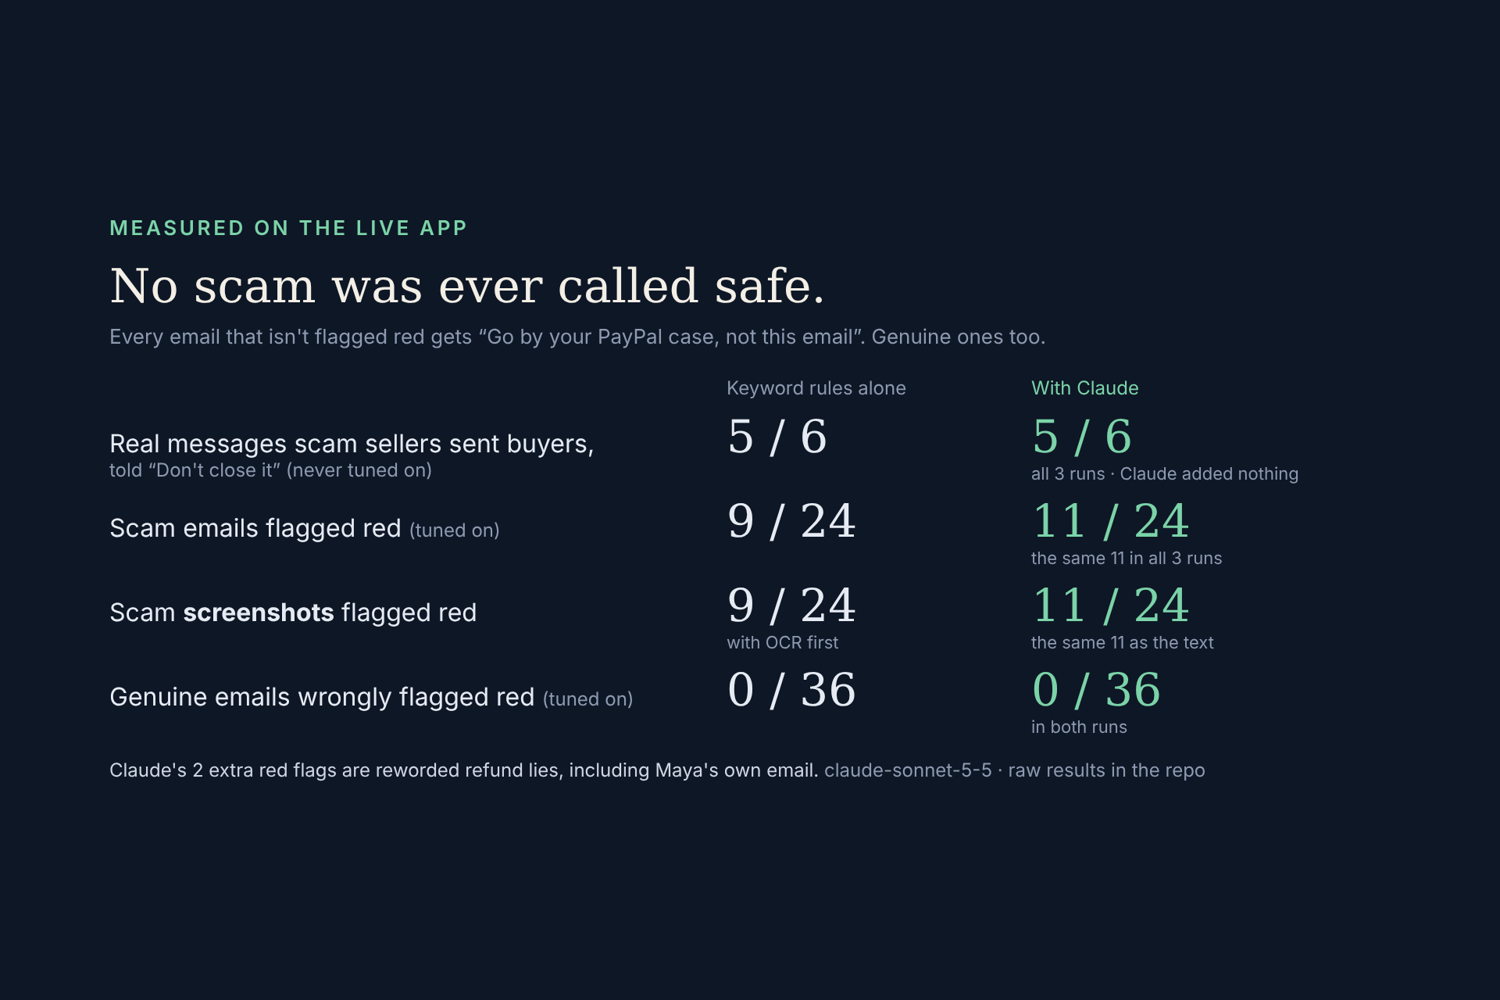
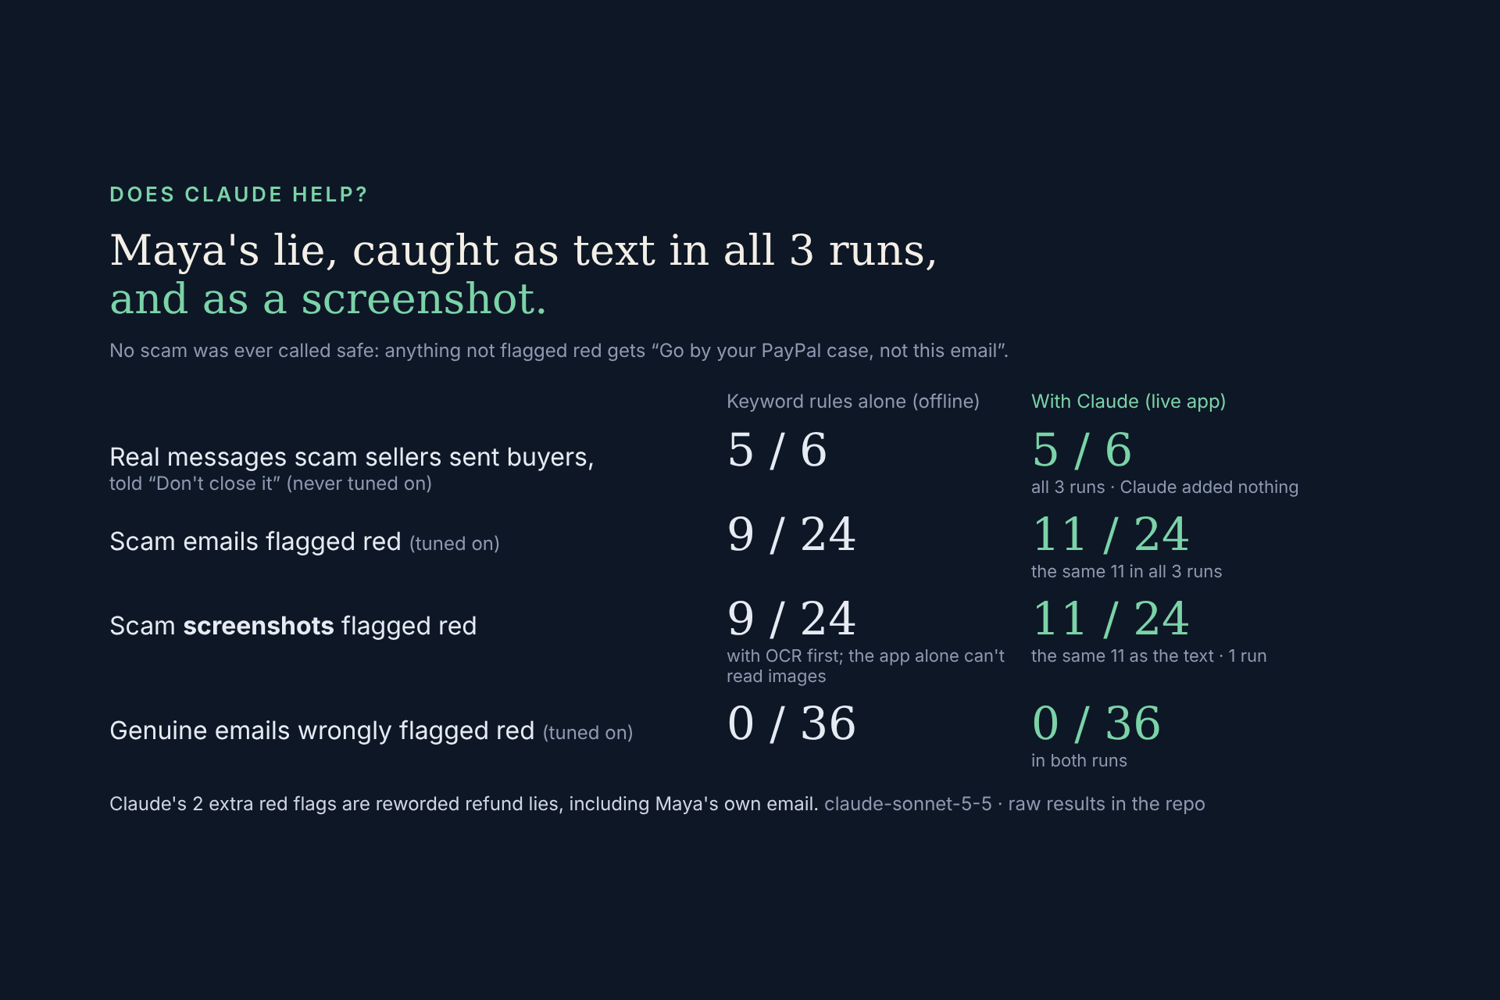
Judge round 4: a model-added 'case decided / money on its way' claim needs a quote (with test); Devpost text: what Claude adds in one sentence, retention, amber floor scope, screenshot run counts and genuine-screenshot row, set 8 wording, specific PayPal asks; results image and video script
Claude-Session: https://claude.ai/code/session_01SjA2V1Qr9LimGbLvD4UyAF

diff --git a/tests/all.test.js b/tests/all.test.js
@@ -324,3 +324,11 @@ test("a refund for another purchase isn't called a lie about her case, and she k
   assert.equal(scam.comparison.overall, "mismatch");
   assert.ok(!/delete it/i.test(scam.note) && /keep it/i.test(scam.note));
 });
+
+test("a model-added 'case decided / money on its way' claim needs a quote too (judge round 4)", async () => {
+  const { gateModelClaims } = await import("../lib/agent.js");
+  const text = "Hi Maya, we're still checking with USPS about your package and will update you this week.";
+  const { kept, dropped } = gateModelClaims({ outcomeClaimed: false }, { outcomeClaimed: true }, text);
+  assert.ok(!kept.outcomeClaimed);
+  assert.ok(dropped.some((d) => d.startsWith("outcomeClaimed")));
+});

diff --git a/lib/claims.js b/lib/claims.js
@@ -158,6 +158,7 @@ const HYPO = /\b(if|unless|whether|would|could|might|may|in case|once|si|una vez
 const CLAIM_WORDS = {
   refundClaimed: /refund|reembols|devoluci|\$|money|funds|balance|credit|reimburs|taken care|paid back|dinero/i,
   caseClosedClaimed: /clos|resolv|settl|cerrad|resuelt/i,
+  outcomeClaimed: /decid|decision|ruled|fav(?:o|ou)r|return|refund|reimburs|credit|money|funds|on (?:its|the) way|resolv|resuelt|devuel|dinero/i,
   asksToCloseCase: /close|cancel|withdraw|\bend\b|drop|remove|cierre|cancele|retire/i,
   asksForSecret: /code|password|passcode|\bpin\b|otp|c[oó]digo|contrase/i,
   asksForOffPlatformPayment: /zelle|gift card|crypto|bitcoin|wire|venmo|cash app|western union|tarjeta/i,

diff --git a/lib/agent.js b/lib/agent.js
@@ -69,7 +69,7 @@ export const modelInfo = () => ({
 
 // Fields that can turn an email red. The model may add one only with a quoted sentence that is really in
 // the email and is a plain statement (not negated or conditional). An offer is not a refund.
-const RED_FIELDS = ["refundClaimed", "caseClosedClaimed", "asksToCloseCase", "asksForSecret", "asksForOffPlatformPayment"];
+const RED_FIELDS = ["refundClaimed", "caseClosedClaimed", "outcomeClaimed", "asksToCloseCase", "asksForSecret", "asksForOffPlatformPayment"];
 export function gateModelClaims(current, input = {}, text = "") {
   const kept = { ...input }; const dropped = []; const quotes = [];
   delete kept.evidence;

diff --git a/docs/DEVPOST.md b/docs/DEVPOST.md
@@ -18,7 +18,7 @@ No link, no "click here", nothing a keyword filter flags. And it isn't true. The
 
 She has ten minutes on a night break, so Day 20's answer is one line, and the deadline is a date, not a rule to look up. Online shopping was the second most reported fraud category in the FTC's 2024 data ([FTC](https://www.ftc.gov/news-events/news/press-releases/2025/03/new-ftc-data-show-big-jump-reported-losses-fraud-125-billion-2024)).
 
-**How her night ends in the demo:** Maya screenshots the email and asks Day 20. It says the email is wrong: PayPal shows no refund, and the case is open, 13 days before it closes. She checks the USPS page herself, types in the Tucson ZIP, and escalates in PayPal. Her one-page case opens with the two ZIPs the reviewer can check. At 3:19 a.m. she's back with her patients. On Dec 1 her case is with a reviewer, not closed. The reviewer decides; Day 20 only made sure the case was still open when Maya acted.
+**How her night ends in the demo:** Maya checks the USPS page herself and types in the Tucson ZIP. Then she screenshots the email and asks Day 20. It says the email is wrong: PayPal shows no refund, and the case is open, 13 days before it closes. She escalates in PayPal. Her one-page case opens with the two ZIPs the reviewer can check. At 3:19 a.m. she's back with her patients. On Dec 1 her case is with a reviewer, not closed. The reviewer decides; Day 20 only made sure the case was still open when Maya acted.
 
 *Maya is a persona. We designed Day 20 by role-playing 24 dispute scenes like hers with AI agents; in them, honest buyers mostly lost before review, to the clock and to emails like this one.*
 
@@ -31,15 +31,15 @@ Day 20 is a buyer safety layer for PayPal disputes, built so PayPal could ship i
 - **Answers in one line from PayPal's record:** "PayPal shows no refund. Your case is still open: 13 days left, it closes Tue, Dec 1. Don't close it."
 - **Keeps her own check apart from PayPal's record.** The delivered ZIP is what Maya read on the carrier's page. It's labelled "Your check", beside "PayPal's record: your ship-to ZIP".
 - **Gives the next step,** including "not yet" when an honest seller deserves time and "not covered" when Buyer Protection doesn't apply.
-- **Drafts a one-page case for the reviewer.** Its first two lines are the facts she can check: the carrier's delivered ZIP (on tracking the seller added) and PayPal's ship-to ZIP. Every line is labelled `PAYPAL RECORD`, `PAYPAL CAN CHECK` or `BUYER REPORTS`.
+- **Drafts a one-page case for the reviewer.** Its first two lines are the facts she can check: the carrier's delivered ZIP (on tracking the seller added) and PayPal's ship-to ZIP. Every line is labelled `PAYPAL RECORD`, `PAYPAL CAN CHECK` or `BUYER REPORTS`, and the last says who prepared it.
 - **Reminders she chooses** (day 15 and day 18), silent by default.
 
-It never files, escalates, closes or accepts anything. She does that in PayPal. It's read-only by code: its PayPal client refuses any call that isn't a read, and a test checks that. (The sandbox credentials themselves could write; the only writes are the setup scripts that create the sandbox case.) Pasted emails go to Anthropic's API to be read, under Anthropic's API data policy. Day 20 doesn't store the email; it keeps the extracted facts (amounts, link hosts, tracking numbers, the verdict) with the case, so the one-page case can cite them, for 7 days in the demo and 60 days when signed in. Reminder emails, if she chooses them, go through Resend.
+It never files, escalates, closes or accepts anything. She does that in PayPal. It's read-only by code: its PayPal client refuses any call that isn't a read, and a test checks that. (The sandbox credentials themselves could write; the only writes are the setup scripts that create the sandbox case.) Pasted emails go to Anthropic's API to be read, under Anthropic's API data policy. Day 20 doesn't store the email; it keeps the extracted facts (amounts, link hosts, tracking numbers, the verdict) with the case so the one-page case can cite them. Demo data is deleted after 7 days; a signed-in buyer's data stays until she taps Disconnect, which deletes it on every device. Day 20 never asks for a PayPal password or code, and never sends sign-in links. Reminder emails, if she chooses them, go through Resend.
 
 ## What Claude does, and what it doesn't
 
 Claude makes two decisions:
-1. **What does this email claim?** It reads reworded lies and screenshots that keyword rules can't. A red flag only counts if Claude quotes the sentence and code confirms it's in the email and isn't negated or hypothetical. (For a screenshot the quote is checked against Claude's own transcription, so that check is weaker.) Amounts must appear in the email too.
+1. **What does this email claim?** It reads reworded lies and screenshots that keyword rules can't. A red flag Claude adds only counts if it quotes the sentence and code confirms it's in the email and isn't negated or hypothetical. (For a screenshot the quote is checked against Claude's own transcription, so that check is weaker.) Amounts must appear in the email too.
 2. **Which code-written sentences does Maya read?** Code writes every sentence; Claude picks from them. (We haven't measured whether Claude's choice beats a fixed order.)
 
 On pasted text, Claude can add a warning but never remove one: the keyword rules always run too. On a screenshot Claude is the only reader, so it could miss a claim, but the worst case is still amber ("go by your PayPal case"), never "safe".
@@ -48,19 +48,22 @@ Code decides the rest: each claim against PayPal's record, the verdict, the dead
 
 **Results on the deployed app, with Claude on** (claude-sonnet-5-5). Raw rows are in [`tests/live/`](https://github.com/dalyathan/day20/tree/main/tests/live) (exported from the browser and re-expanded; see its README), `npm run live-summary` prints the table, `npm run realworld` re-checks the rules-only column offline (with OCR for screenshots), and `scripts/live-eval-browser.js` re-runs it from the console on the live site.
 
-**No scam was ever called safe.** Every email that isn't flagged red gets the amber "Go by your PayPal case, not this email", genuine ones too. That floor is by design, so the rows below measure what goes beyond it.
+**What Claude adds, in one sentence:** it reads screenshots, and it catches reworded refund lies the keyword rules miss, like Maya's "already sitting in your PayPal balance" (2 of our 24 test scams, in every run).
+
+**No scam was ever called safe.** In an open case, every email that isn't flagged red gets the amber "Go by your PayPal case, not this email", genuine ones too; green is only possible when PayPal's record agrees with a refund or closed-case claim. That floor is by design, so the rows below measure what goes beyond it. The rules-only column is run offline (`npm run realworld`, `npm run eval`); the Claude column on the live app.
 
 | | Keyword rules alone | With Claude |
 |---|---|---|
 | **Real messages scam sellers sent buyers** (6, quoted word for word in public threads, never tuned on): told "Don't close it" | 5 / 6 | **5 / 6 in all 3 runs**; Claude added nothing |
 | Scam emails flagged red (24, tuned on) | 9 / 24 | **11 / 24 in each of 3 runs**, the same 11 |
-| Scam screenshots flagged red (all 24) | 9 / 24 with OCR (tesseract) first | **11 / 24**, the same 11 as the text |
+| Scam screenshots flagged red (all 24, 1 run) | 9 / 24 with OCR (tesseract) first; the app itself can't read images without Claude | **11 / 24**, the same 11 as the text |
 | Genuine emails wrongly flagged red (36, tuned on) | 0 / 36 | **0 / 36 in each of 2 runs** |
+| Genuine **screenshots** wrongly flagged red (6 from set 8, 1 run, before the fix below) | 1 / 6 with OCR first | 1 / 6 (h8_01, the other-shop refund) |
 
 - **The real-world set is the honest test, and Claude adds nothing there.** Five of the six are "close the dispute and we'll refund you"; the keyword rules already catch that request and say "Don't close it." The sixth threatens that a dispute "could result in zero funds being returned"; both readers give it only the general amber warning. None of the six claims anything about her case's record, so none is red. ([sources](https://github.com/dalyathan/day20/blob/main/tests/realworld/SOURCES.md))
-- **What Claude adds is narrow: 2 of 24 tuned-on scams, both reworded refund lies**, including Maya's own email (it's in our test set). It catches them in every run, as text and as a screenshot. On a screenshot, Claude reads what OCR plus the same rules would, plus those 2.
-- **Genuine email it had never seen** (set 8: 12 emails by a fresh writer, frozen before scoring): 11/12 left alone in every run, the same as the rules alone, so Claude added no false alarm. The miss was a real $27.50 refund from another shop, flagged red and marked "report it". We fixed that after scoring (a refund of another amount that doesn't name her case is now "may be another purchase"), so set 8 is now 12/12 and no longer counts as unseen.
-- **Commits:** tuned-on runs at 197d0f3 and 95b7bb3 (same check code); the real-world set, set 8 and a scam re-run at f0c0afd, after the fix above (scams: 11/24 again, the same 11). **Not measured:** unseen scams written to beat Day 20 (an AI agent asked to write them was stopped by a safety check, and we didn't work around it), and whether Claude's choice of sentences beats a fixed order.
+- **What Claude adds is narrow: 2 of 24 tuned-on scams, both reworded refund lies**, including Maya's own email (it's in our test set). It catches them in every run as text (3 runs) and as a screenshot (1 run). On a screenshot, Claude reads what OCR plus the same rules would, plus those 2.
+- **Genuine email it had never seen** (set 8: 12 emails by a fresh writer, frozen before scoring): 11/12 left alone in every run so far (3 runs at commit 2ddc64e, 1 at 95b7bb3), the same as the rules alone, so Claude added no false alarm. The miss was a real $27.50 refund from another shop, flagged red and marked "report it". We fixed that after scoring (a refund of another amount that doesn't name her case is now "may be another purchase"), so set 8 is now 12/12 as text (1 run; the screenshots weren't re-run) and no longer counts as unseen. The trade: a refund lie that gives another amount and doesn't name her case is now amber, not red, though she's still told her case is open and not to close it.
+- **Commits:** tuned-on runs at 197d0f3 and 95b7bb3 (same check code); the real-world set, set 8 and a scam re-run at f0c0afd, after the fix above (scams: 11/24 again, the same 11). After that, one more gate: a "case decided / money on its way" claim added by Claude now needs a quote too. No measured red flag relied on one (they all came from the rules), so the numbers above stand. **Not measured:** unseen scams written to beat Day 20 (an AI agent asked to write them was stopped by a safety check, and we didn't work around it), and whether Claude's choice of sentences beats a fixed order.
 
 ## How we built it
 
@@ -71,7 +74,7 @@ Code decides the rest: each claim against PayPal's record, the verdict, the dead
 
 ## Who tests the AI?
 
-AI agents played scammers and honest senders and scored a point for every mistake they caused; each mistake became a test. When a regex filter on the model's own sentences caught 0 of 33 harmful ones, we stopped letting the model write anything Maya reads.
+AI agents played scammers and honest senders and scored a point for every mistake they caused; each mistake became a test. When a regex filter on the model's own sentences caught 0 of 33 harmful ones (our game report; those game files aren't in the repo), we stopped letting the model write anything Maya reads.
 
 ## Why PayPal would want this
 
@@ -97,7 +100,7 @@ The most useful thing an agent can do here is boring: keep the clock, compare cl
 
 1. **Label seller-written text in PayPal's own emails.** Invoice and money-request notes arrive from `service@paypal.com`. Mark them "written by the seller", and block refund claims and dispute case numbers in them.
 2. **Show the buyer the delivery mismatch before day 20.** Reviewers already check proof of delivery against the ship-to address; buyers don't see that comparison until it's too late. Put the carrier's delivered ZIP next to the ship-to ZIP on the buyer's case page.
-3. **Let buyers consent to `disputes/read-buyer` for an outside app,** and extend dispute webhooks to buyers, so reminders follow the case's real status. Or ship Day 20 inside PayPal's dispute screens: it's MIT-licensed and only reads.
+3. **An OAuth consent flow for `disputes/read-buyer`, and buyer-side delivery of the `CUSTOMER.DISPUTE.*` webhooks,** so an outside app can read only the buyer's own cases, with her permission, and reminders follow the case's real status.
 
 ## Built with
 

diff --git a/docs/VIDEO_SCRIPT.md b/docs/VIDEO_SCRIPT.md
@@ -11,7 +11,7 @@ background colour.
 | 0:00–0:09 | Night. Her email, from "PayPal Service": "Your $66.00 is already sitting in your PayPal balance … Everything looks good from here." | "3:14 a.m. Maya, an ICU nurse, is on her break. The dress she bought for her best friend's wedding never came. Her PayPal case is open. Then this arrives." |
 | 0:09–0:14 | A closed-case card. | "If she believes it and waits: Tue, Dec 1 · day 20. Case closed. It can't be reopened. The $66 is gone." |
 | 0:14–0:24 | Maya (animated). | "It isn't true. The seller wrote it; he can see her case number. The PayPal address proves nothing: scammers can even get real PayPal emails sent with their own words in them. Maya isn't giving up." |
-| 0:24–0:33 | Phone: home, then her case: day 7 of 20, closes Tue, Dec 1. Next step: "Tell Day 20 what the tracking says". | "Day 20 reads her PayPal case. Status, refund, ship-to ZIP, tracking, and the 20-day clock. It only reads: it can't change anything in PayPal." Small: "Demo: our own sandbox case, read through our test seller account and set to 'open' at day 7. Real buyers would need PayPal to let an outside app read their case." |
+| 0:24–0:33 | Phone: home, then her case: day 7 of 20, closes Tue, Dec 1. Next step: "Tell Day 20 what the tracking says". | "Day 20 reads her PayPal case. Status, refund, ship-to ZIP, tracking, and the 20-day clock. It only reads: it can't change anything in PayPal." Small: "Demo: our own sandbox case, read through our test seller account. We paid and disputed it minutes apart; the replay sets it to 'open' at day 7. Real buyers would need PayPal to let an outside app read their case." |
 | 0:33–0:42 | Phone: she types Tucson, AZ / 85705 / the carrier's delivery line and saves; the next step becomes "Ask PayPal to step in by Sun, Nov 29" with "Your check: … 85705 … PayPal's record: … 95131". | "Then Maya checks for herself. The USPS page says delivered in Tucson, 85705. She lives in San Jose, 95131. She types it in, and Day 20 labels it as her check, next to PayPal's ship-to ZIP." |
 | 0:42–0:54 | Phone: "Or as a screenshot" loads her email as an image; "Checking…"; "This email is wrong about your PayPal case." | "She screenshots the email and asks Day 20. No link, no 'click here': nothing a keyword filter would flag. Claude reads the screenshot." Small: "Claude's answers in this video were captured from the live app, then replayed in a scripted recording." |
 | 0:54–1:01 | Phone: the trace. Card with three real trace lines: `read_claim (rules, on the transcript) → case PP-R-UZH-10198816`, highlighted `read_claim (Claude) → added what the rules missed: refund $66; no action needed`, `compare → mismatch: 3 finding(s)`. | "Claude caught the lie. The keyword rules found no refund claim. Claude found it: $66 refunded, no action needed. Code checked it against PayPal's record: no refund." Small: "Without Claude she'd still see amber and the same deadline. With it, she knows the email is wrong, and why. (For a screenshot, the quote is checked against Claude's own transcription.)" |
@@ -20,8 +20,8 @@ background colour.
 | 1:19–1:27 | Maya (animated), smiling. | "3:19 a.m. Five minutes. She escalated in PayPal herself, 13 days before her case would have closed. The two ZIPs are ready for the reviewer. Then back to her patients." |
 | 1:27–1:32 | An open-case card. | "Because she acted: Tue, Dec 1 · day 20. With a PayPal reviewer. Still open. Still hers to win." |
 | 1:32–1:42 | Rosa (animated), the reviewer. | "Rosa reviews PayPal disputes. She opens Maya's case and checks the first two lines of her summary: delivered in Tucson, shipped to San Jose. Tracking to the wrong city isn't proof of delivery. Because Maya acted before day 20, there's still a case to review." |
-| 1:42–1:52 | Under the hood. | "Claude reads. Code decides. Claude decides 1: what does this email claim? Every red flag must quote it. Code decides: each claim against PayPal's record, the verdict, the deadline. Claude decides 2: which code-written sentences Maya reads. Never: anything written to PayPal. Maya files, escalates and decides." |
-| 1:52–2:07 | Results, live app. | "No scam was ever called safe. Every email that isn't flagged red gets 'Go by your PayPal case, not this email'. Genuine ones too." Real messages scam sellers sent buyers, told "Don't close it" (never tuned on): rules 5/6, Claude 5/6 (all 3 runs, Claude added nothing). Scam emails flagged red (tuned on): 9/24 vs 11/24, the same 11 in all 3 runs. Scam screenshots flagged red: 9/24 with OCR first vs 11/24. Genuine emails wrongly flagged red (tuned on): 0/36 vs 0/36 in both runs. "Claude's 2 extra red flags are reworded refund lies, including Maya's own email." |
-| 2:07–2:16 | Unseen genuine email. | "12 new genuine emails, frozen before scoring: 11 left alone, in every run with Claude. The miss: a real refund from another shop, flagged red and marked 'report it'. We fixed that after scoring (now 12 of 12), so this set no longer counts as unseen." |
+| 1:42–1:52 | Under the hood. | "Claude reads. Code decides. Claude decides 1: what does this email claim? Every red flag must quote it. Code decides: each claim against PayPal's record, the verdict, the deadline. Claude decides 2: which code-written sentences Maya reads (not measured against a fixed order). Never: anything written to PayPal. Maya files, escalates and decides." |
+| 1:52–2:07 | Results, live app. | "Does Claude help? Maya's lie, caught as text in all 3 runs, and as a screenshot. No scam was ever called safe: anything not flagged red gets 'Go by your PayPal case, not this email'." Columns: keyword rules alone (offline), with Claude (live app). Real messages scam sellers sent buyers, told "Don't close it" (never tuned on): rules 5/6, Claude 5/6 (all 3 runs, Claude added nothing). Scam emails flagged red (tuned on): 9/24 vs 11/24, the same 11 in all 3 runs. Scam screenshots flagged red: 9/24 with OCR first (the app alone can't read images) vs 11/24, the same 11 as the text, 1 run. Genuine emails wrongly flagged red (tuned on): 0/36 vs 0/36 in both runs. "Claude's 2 extra red flags are reworded refund lies, including Maya's own email." |
+| 2:07–2:16 | Unseen genuine email. | "12 new genuine emails, frozen before scoring: 11 left alone, in every run with Claude. The miss: a real refund from another shop, flagged red and marked 'report it'. We fixed that after scoring (now 12 of 12 as text), so this set no longer counts as unseen." |
 | 2:16–2:23 | How we tested it. | "AI agents played scammers and honest senders, scoring a point for every mistake they caused. Each mistake became a test. The email numbers re-run from the repo, and from a browser on the live app." |
 | 2:23–2:30 | End card. | "Emails can lie. Your PayPal case can't. Day 20 · day20.onrender.com · Sandbox prototype · read-only by code · free for buyers · open source (MIT). Built on PayPal's sandbox APIs. Not affiliated with or endorsed by PayPal. PayPal decides every case." |
